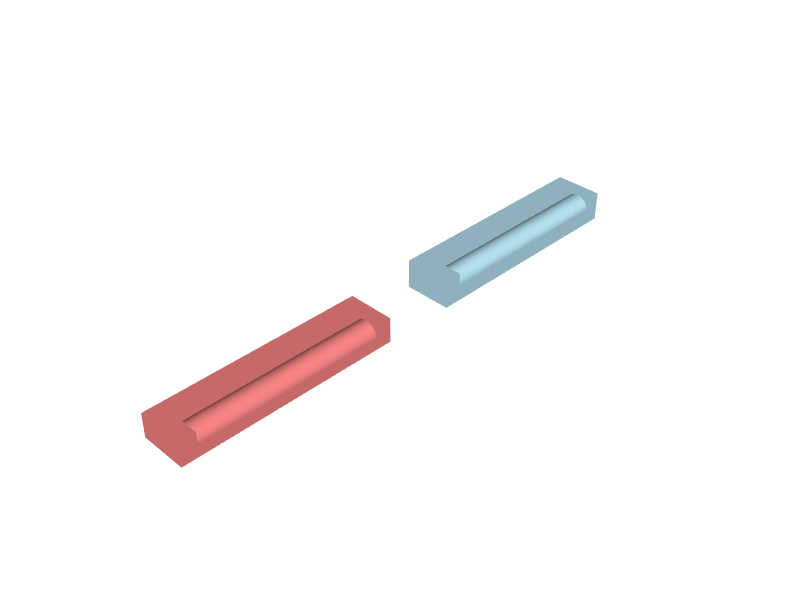
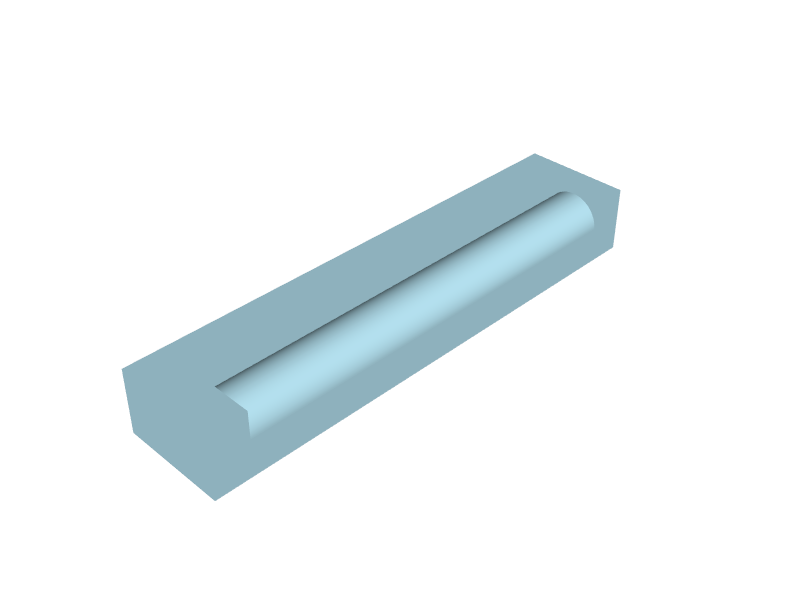
Keep only the 2 mm ODD cable clip
Both depths were printed and the 2 mm one is in use, so the 1.5 mm
variant goes: single clip_ext value, one odd_clip.stl, spec and README
updated.

Changed region(s): [[0.1562, 0.24, 0.7812, 0.84]]

diff --git a/cad/base.py b/cad/base.py
@@ -95,7 +95,7 @@ clip_slot_h = 1.2        # PCB plus the ribbon cable, tight (1.5 was loose)
 clip_bend_r = 1.5        # the bar on one side of the slot ends in a full half round of this radius (3 mm diameter) for the cable to fold round
 clip_wall = 2.0          # beside the slot
 clip_bar_t = 1.5         # the rectangular bar on the other side of the slot
-clip_ext = (2.0, 1.5)    # two versions: straight depth along the board before the half round (total depth clip_ext + clip_bend_r)
+clip_ext = 2.0           # straight depth along the board before the half round (total depth clip_ext + clip_bend_r); 1.5 was printed too and not used
 stand_clear = 0.3        # stand: slot to the case thickness, per side
 stand_floor_t = 2.0      # a flat plate, so books and the like can lie on it beside the case
 stand_rail_w = 4.0       # the slot walls are two rails on the plate, this thick
@@ -383,8 +383,8 @@ def build_odd_clip(ext):
     rnd = rnd.move(Location((0, yb + r, ext))) & Box(w, h, r + 1, align=(Align.CENTER, Align.MIN, Align.MIN)).move(Location((0, 0, ext)))   # keep the outward half
     return ring + bar + rnd
 
-for ext in clip_ext:
-    show(build_odd_clip(ext), "odd_clip_%g" % ext)
+odd_clip = build_odd_clip(clip_ext)
+show(odd_clip, "odd_clip")
 
 # --- stand: the case stands on either end wall, IO to the back, in a slot along its length. Flipping the case between its two ends
 # turns the lid to the other side of the slot, so both walls get the same notches. Stand frame: X along the case from the port-edge

diff --git a/DESIGN.md b/DESIGN.md
@@ -102,11 +102,11 @@ Updated as measurements and decisions come in.
 - ODD spacer (`cad/out/odd_spacer.stl`): a loose 6 mm disc, 2 mm tall (the ODD board sits 2 mm above the main board top, measured on jig v6),
   placed on the main board top under ODD hole O6, with a 2.3 mm nub 7.8 mm long up through the 2.6 mm hole to 0.1 under the lid, so the spacer
   can move neither up nor down once the lid is on. Replaces the drilled H8 spacer: O6 is no longer over a board hole. Prints nub up.
-- ODD cable clip (`cad/out/odd_clip_2.stl`, `cad/out/odd_clip_1.5.stl`): keeps the folded ODD ribbon cable from creasing. A 26.5 x 5.7 mm
+- ODD cable clip (`cad/out/odd_clip.stl`): keeps the folded ODD ribbon cable from creasing. A 26.5 x 5.7 mm
   ring that slips onto the ODD board's pointy end: slot 22.5 wide and 1.2 tall (PCB plus ribbon, tight; 1.5 was loose), 2 mm side walls, a
-  1.5 mm rectangular bar on one side of the slot and on the other a 3 mm bar between the side walls that is straight for 2 mm (or 1.5 mm,
-  the second version) along the board and then ends in a full half round of 1.5 mm radius, round face outward, for the cable to fold round.
-  Total depth 3.5 (3.0) mm, the side walls flush with the half round's apex. Prints flat on the inner face (the half round is a dome on top,
+  1.5 mm rectangular bar on one side of the slot and on the other a 3 mm bar between the side walls that is straight for 2 mm along the
+  board and then ends in a full half round of 1.5 mm radius, round face outward, for the cable to fold round. Total depth 3.5 mm, the
+  side walls flush with the half round's apex. A 1.5 mm straight version was printed too; the 2 mm one is used. Prints flat on the inner face (the half round is a dome on top,
   no overhang). ODD PCB thickness assumed 1.0 like the main board.
 - Stand (`cad/out/stand.stl`): the case stands vertically on either end wall with the ports to the back, in a slot along its length.
   A flat 243.5 x 56 x 2 mm plate (the case length, corners on the 5.1 fillet, 1 mm chamfer on the top edge) so books and the like can lie
@@ -281,6 +281,7 @@ Fill in after the colon on each line.
   ODD spacer disc sits:
 - Board-top airflow with only 3 intake slots left: does the board top (memory, VRM) run warm standing on the audio end:
 - ODD cable clips printed (2 and 1.5 mm straight, 1.2 slot): which depth, does the slot take the board plus the ribbon, does it stay put:
+  the 2 mm one is used; the 1.5 mm version is dropped (2026-11-04)
 - Stand v1 printed (2 mm plate, 4 mm rails 14 tall, 26.3 slot, notches at the ends and over the LED slit): does the case slide in, is it
   stable on either end, does the plate stay flat, do the screw heads clear, are the LEDs visible:
 - Lid grille over the fan: enough on a shelf, or does the board top run warm (then offset it toward the board)?:
@@ -315,6 +316,7 @@ Answered:
 
 ## Log
 
+- 2026-11-04: only the 2 mm ODD cable clip is used, the 1.5 mm version is removed (`cad/out/odd_clip.stl`)
 - 2026-11-04: stand slimmed to a 2 mm plate with 4 mm rails (books can lie on the plate; a third of the filament); rail edges chamfered, 3 mm on the ends, 2 mm gusset along the outside foot
 - 2026-11-03: stand for standing the case on either end wall, ports to the back (`cad/out/stand.stl`): slotted bar, walls notched at the ends
   for the lid screw heads and over the LED slit

diff --git a/README.md b/README.md
@@ -19,7 +19,7 @@ All files are in `cad/out/`. Everything prints without supports.
 | `base.stl` | Base: standoffs, fan mounts, wind channel, port windows, vents, SD card funnel | As is, floor down |
 | `lid.stl` | Lid with lip, screw holes, fan grille and LED peek slit | Already flipped, top face down |
 | `odd_spacer.stl` | Spacer under the daughterboard's hole over the main board, with a nub up to the lid | Nub up |
-| `odd_clip_2.stl`, `odd_clip_1.5.stl` | Clip on the daughterboard's pointy end that keeps the ribbon cable from creasing (two depths) | Flat, dome up |
+| `odd_clip.stl` | Clip on the daughterboard's pointy end that keeps the ribbon cable from creasing | Flat, dome up |
 | `stand.stl` | Stand for standing the case on either end, ports to the back | Slot up |
 | `jig.stl`, `io_jig.stl`, `lid_jig.stl` | Test fixtures for checking hole and port positions with less filament | As the parts above |
 
@@ -30,7 +30,7 @@ M3 x 10 screws for the lid.
 
 ![Lid underside](cad/out/lid_bottom.png)
 
-![Cable clip, two depths](cad/out/odd_clip.png)
+![Cable clip](cad/out/odd_clip.png)
 
 ![Stand](cad/out/stand.png)
 
